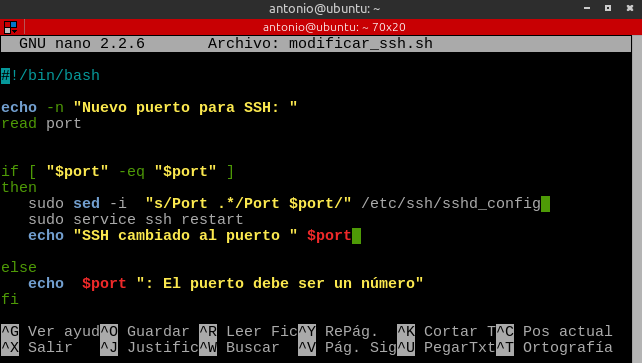
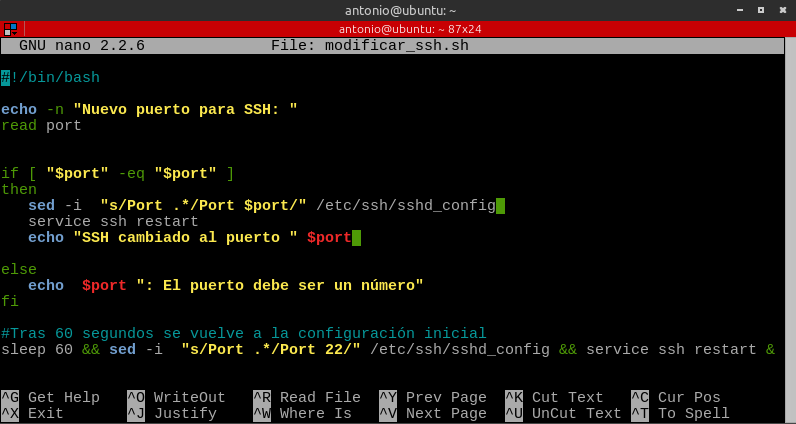
Mejora

diff --git a/Practica_2/Practica2.tex b/Practica_2/Practica2.tex
@@ -151,12 +151,12 @@ La opción -X de SSH sirve para que la aplicación se ejecute en el servidor rem
 \textit{Muestre la secuencia de comandos y las modificaciones a los archivos correspondientes para permitir acceder a la consola remota sin introducir la contraseña. (Pistas: ssh-keygen, ssh-copy-id).}
 \newline
 
-El proceso para permitir acceder a la consola sin introducir la contraseña consta de dos pasos: En primer lugar debemos crear una clave rsa y una carpeta para guardarla (en caso de que no exista ) , para ello hacemos uso de los comandos mostrados en la figura \ref{fig2}. En segundo lugar debemos transferir la clave rsa que acabamos de crear al servidor remoto como se puede ver en la figura \ref{fig3}, por último realizaremos una conexión SSH a la máquina remota y en caso de que no se nos pida una contraseña habremos verificado que la configuración se ha realizado correctamente ( figura \ref{fig4}). \cite{passssh}
+El proceso para permitir acceder a la consola sin introducir la contraseña consta de dos pasos: En primer lugar debemos crear una clave RSA y una carpeta para guardarla (en caso de que no exista ) , para ello hacemos uso de los comandos mostrados en la figura \ref{fig2}. En segundo lugar debemos transferir la clave RSA que acabamos de crear al servidor remoto como se puede ver en la figura \ref{fig3}, por último realizaremos una conexión SSH a la máquina remota y en caso de que no se nos pida una contraseña habremos verificado que la configuración se ha realizado correctamente ( figura \ref{fig4}). \cite{passssh}
 
 \begin{figure}[H]
     \begin{center}
         \includegraphics[scale=0.45]{imagenes/img2}
-        \caption{Secuencia de comandos necesaria para generar la clave rsa y la carpeta que guarda la clave.}
+        \caption{Secuencia de comandos necesaria para generar la clave RSA y la carpeta que guarda la clave.}
         \label{fig2}
     \end{center}
 \end{figure}
@@ -746,7 +746,7 @@ La ejecución del ejemplo de grep ( \texttt{grep -Af | firefox} ) muestra la inf
 \end{figure}
 
 
-Para probar sed he creado un script que pide un nuevo puerto para SSH y cambia la configuración, como se puede ver en las figuras \ref{fig46}, \ref{fig47} y \ref{fig48}.\cite{sed}
+Para probar sed he creado un script que pide un nuevo puerto para SSH y cambia la configuración del puerto de SSH durante 60 segundos, luego vuelve a poner SSH en el puerto 22, como se puede ver en las figuras \ref{fig46}, \ref{fig47} y \ref{fig48}.\cite{sed}
 
 
 \begin{figure}[H]
@@ -759,6 +759,7 @@ Para probar sed he creado un script que pide un nuevo puerto para SSH y cambia l
 
 \begin{figure}[H]
     \begin{center}
+        \advance\leftskip-2cm
         \includegraphics[scale=0.65]{imagenes/img50}
         \caption{Código del script usado para la prueba de sed.}
         \label{fig47}
